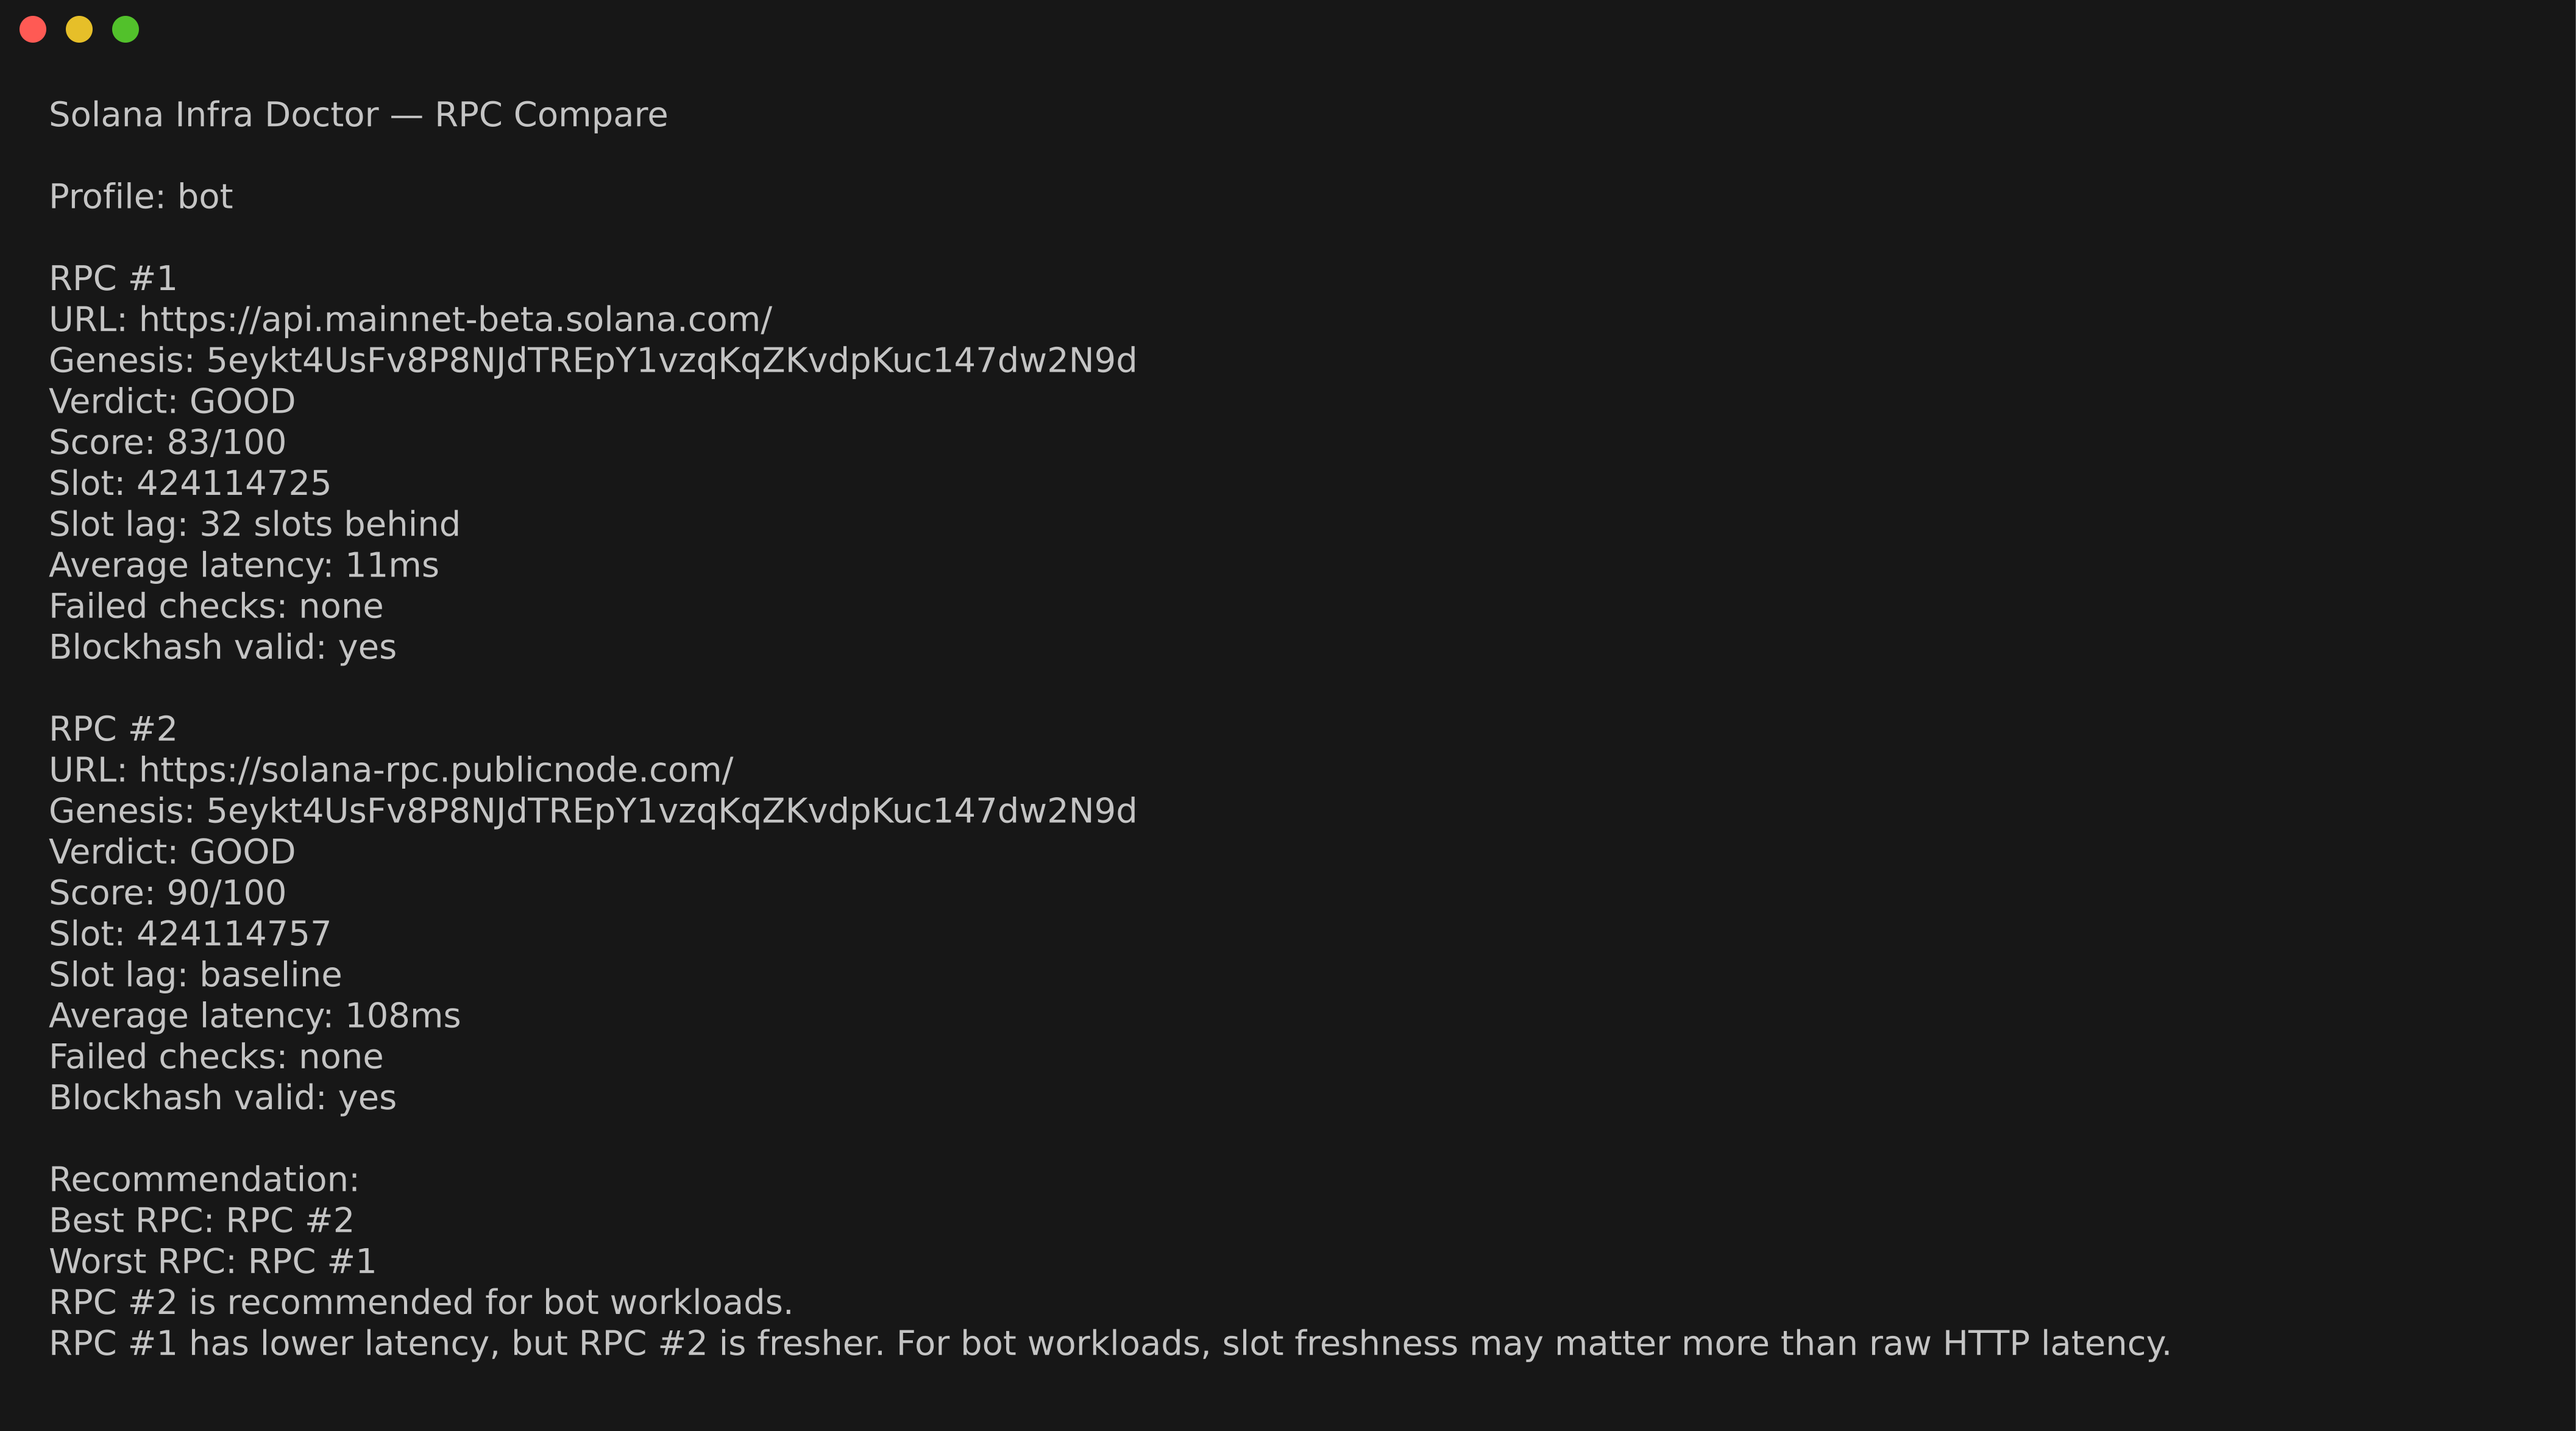
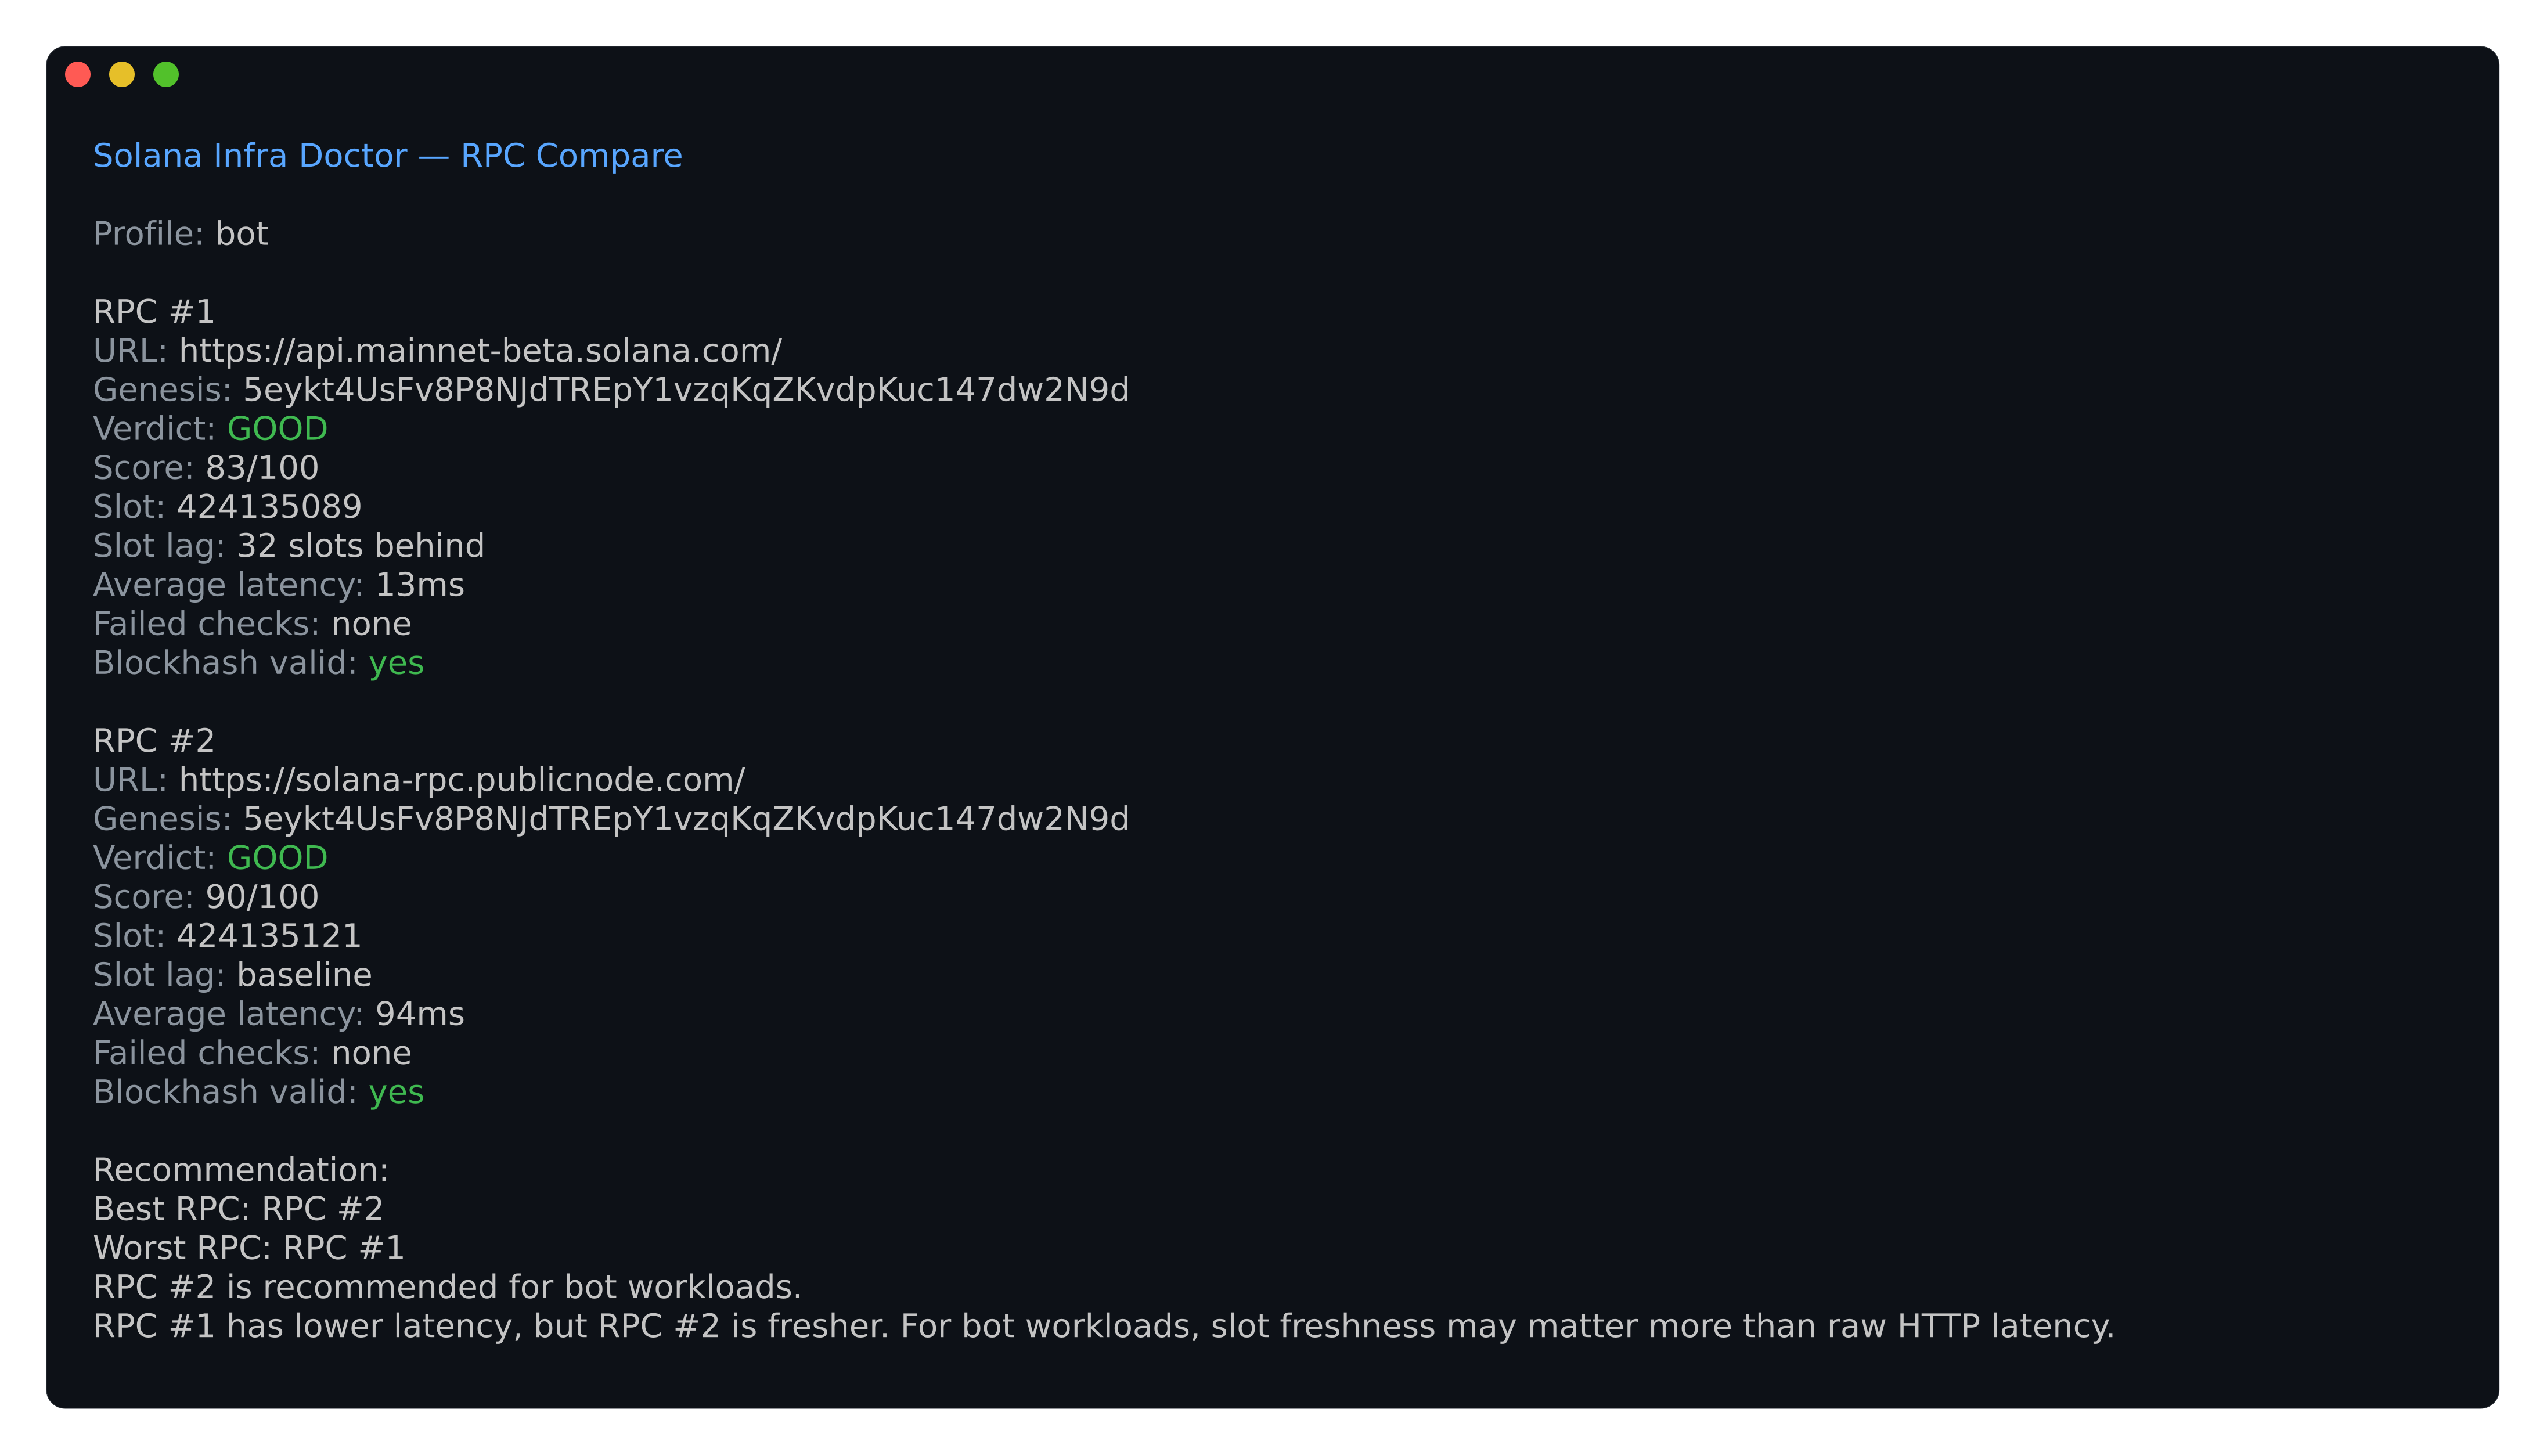
Prepare v0.4.0 release: real colored demo and changelog date
Regenerate the demo screenshots from real, live runs against public
mainnet endpoints with color enabled, and replace the human-output
README examples with the corresponding real output (no fabricated
values). Finalize the 0.4.0 changelog date.

Changed region(s): [[0.0, 0.0, 1.0, 1.0]]

diff --git a/README.md b/README.md
@@ -44,7 +44,9 @@ Check WebSocket realtime readiness (`sol-doctor ws`):
 
 ![sol-doctor ws output](https://raw.githubusercontent.com/satyakwok/solana-infra-doctor/main/docs/assets/ws.png)
 
-Screenshots are real runs against public endpoints; values vary per run.
+Screenshots are real runs against public endpoints, captured with color
+enabled; values vary per run. See [Color output](#color-output) for how color is
+controlled.
 
 ## Install
 
@@ -319,31 +321,38 @@ output is byte-for-byte identical to the uncolored output.
 
 ## Human Output Example
 
+This is a real run against `https://api.mainnet-beta.solana.com` (on a terminal
+this output is colorized; see the [Demo](#demo) screenshots):
+
 ```text
 Solana Infra Doctor
 ===================
 RPC URL: https://api.mainnet-beta.solana.com/
 Verdict: GOOD
 Summary: all RPC readiness checks succeeded
-Average latency: 42ms
+Average latency: 12ms
 
 Checks:
 
 Core:
-- getHealth                    OK       35ms  health is ok
-- getVersion                   OK       39ms  solana-core 4.0.0
-- getGenesisHash               OK       41ms  5eykt4UsFv8P8NJdTREpY1vzqKqZKvdpKuc147dw2N9d
-- getSlot                      OK       38ms  slot 424013263
+- getHealth                    OK       32ms  health is ok
+- getVersion                   OK        5ms  solana-core 4.0.0
+- getGenesisHash               OK        8ms  5eykt4UsFv8P8NJdTREpY1vzqKqZKvdpKuc147dw2N9d
+- getSlot                      OK        4ms  slot 424135210
 
 Blockhash:
-- getLatestBlockhash           OK       44ms  7xKXtgQv...example
-- isBlockhashValid             OK       40ms  latest blockhash is valid
+- getLatestBlockhash           OK        4ms  6GWATk9t7puKX48hcMW2fPiZ3HvCUV8VpgtgYwVykv3W
+- isBlockhashValid             OK        6ms  latest blockhash is valid
 
 Performance:
-- getRecentPerformanceSamples  OK       47ms  124000 transactions across 64 slots in 60s
+- getRecentPerformanceSamples  OK       27ms  204903 transactions across 148 slots in 60s
 ```
 
 ## Compare Output Example
+
+A real `bot`-profile comparison of two public mainnet endpoints. Note that the
+lower-latency endpoint (RPC #1) is not the winner: RPC #2 serves fresher slots,
+which the `bot` profile weighs more heavily.
 
 ```text
 Solana Infra Doctor — RPC Compare
@@ -352,30 +361,31 @@ Profile: bot
 
 RPC #1
 URL: https://api.mainnet-beta.solana.com/
+Genesis: 5eykt4UsFv8P8NJdTREpY1vzqKqZKvdpKuc147dw2N9d
 Verdict: GOOD
-Score: 90/100
-Slot: 347000000
-Slot lag: baseline
-Average latency: 142ms
+Score: 83/100
+Slot: 424135210
+Slot lag: 32 slots behind
+Average latency: 12ms
 Failed checks: none
+Blockhash valid: yes
 
 RPC #2
-URL: https://***.provider.com/
-Verdict: WARNING
-Score: 15/100
-Slot: 346999700
-Slot lag: 300 slots behind
-Average latency: 812ms
-Failed checks: getRecentPerformanceSamples
-Notes:
-- Average latency is high for latency-sensitive bot workloads.
-- Slot lag is high for slot-sensitive bot workloads.
+URL: https://solana-rpc.publicnode.com/
+Genesis: 5eykt4UsFv8P8NJdTREpY1vzqKqZKvdpKuc147dw2N9d
+Verdict: GOOD
+Score: 90/100
+Slot: 424135242
+Slot lag: baseline
+Average latency: 99ms
+Failed checks: none
+Blockhash valid: yes
 
 Recommendation:
-Best RPC: RPC #1
-Worst RPC: RPC #2
-RPC #1 is recommended for bot workloads.
-Avoid RPC #2 for latency-sensitive or slot-sensitive workloads.
+Best RPC: RPC #2
+Worst RPC: RPC #1
+RPC #2 is recommended for bot workloads.
+RPC #1 has lower latency, but RPC #2 is fresher. For bot workloads, slot freshness may matter more than raw HTTP latency.
 ```
 
 ## JSON Output Example

diff --git a/CHANGELOG.md b/CHANGELOG.md
@@ -1,6 +1,6 @@
 # Changelog
 
-## 0.4.0 - Unreleased
+## 0.4.0 - 2026-06-04
 
 - Add TTY-aware, semantic color to human terminal output for `check`, `compare`,
   and `ws`: verdicts and `OK`/`FAIL` markers carry status colors, labels are